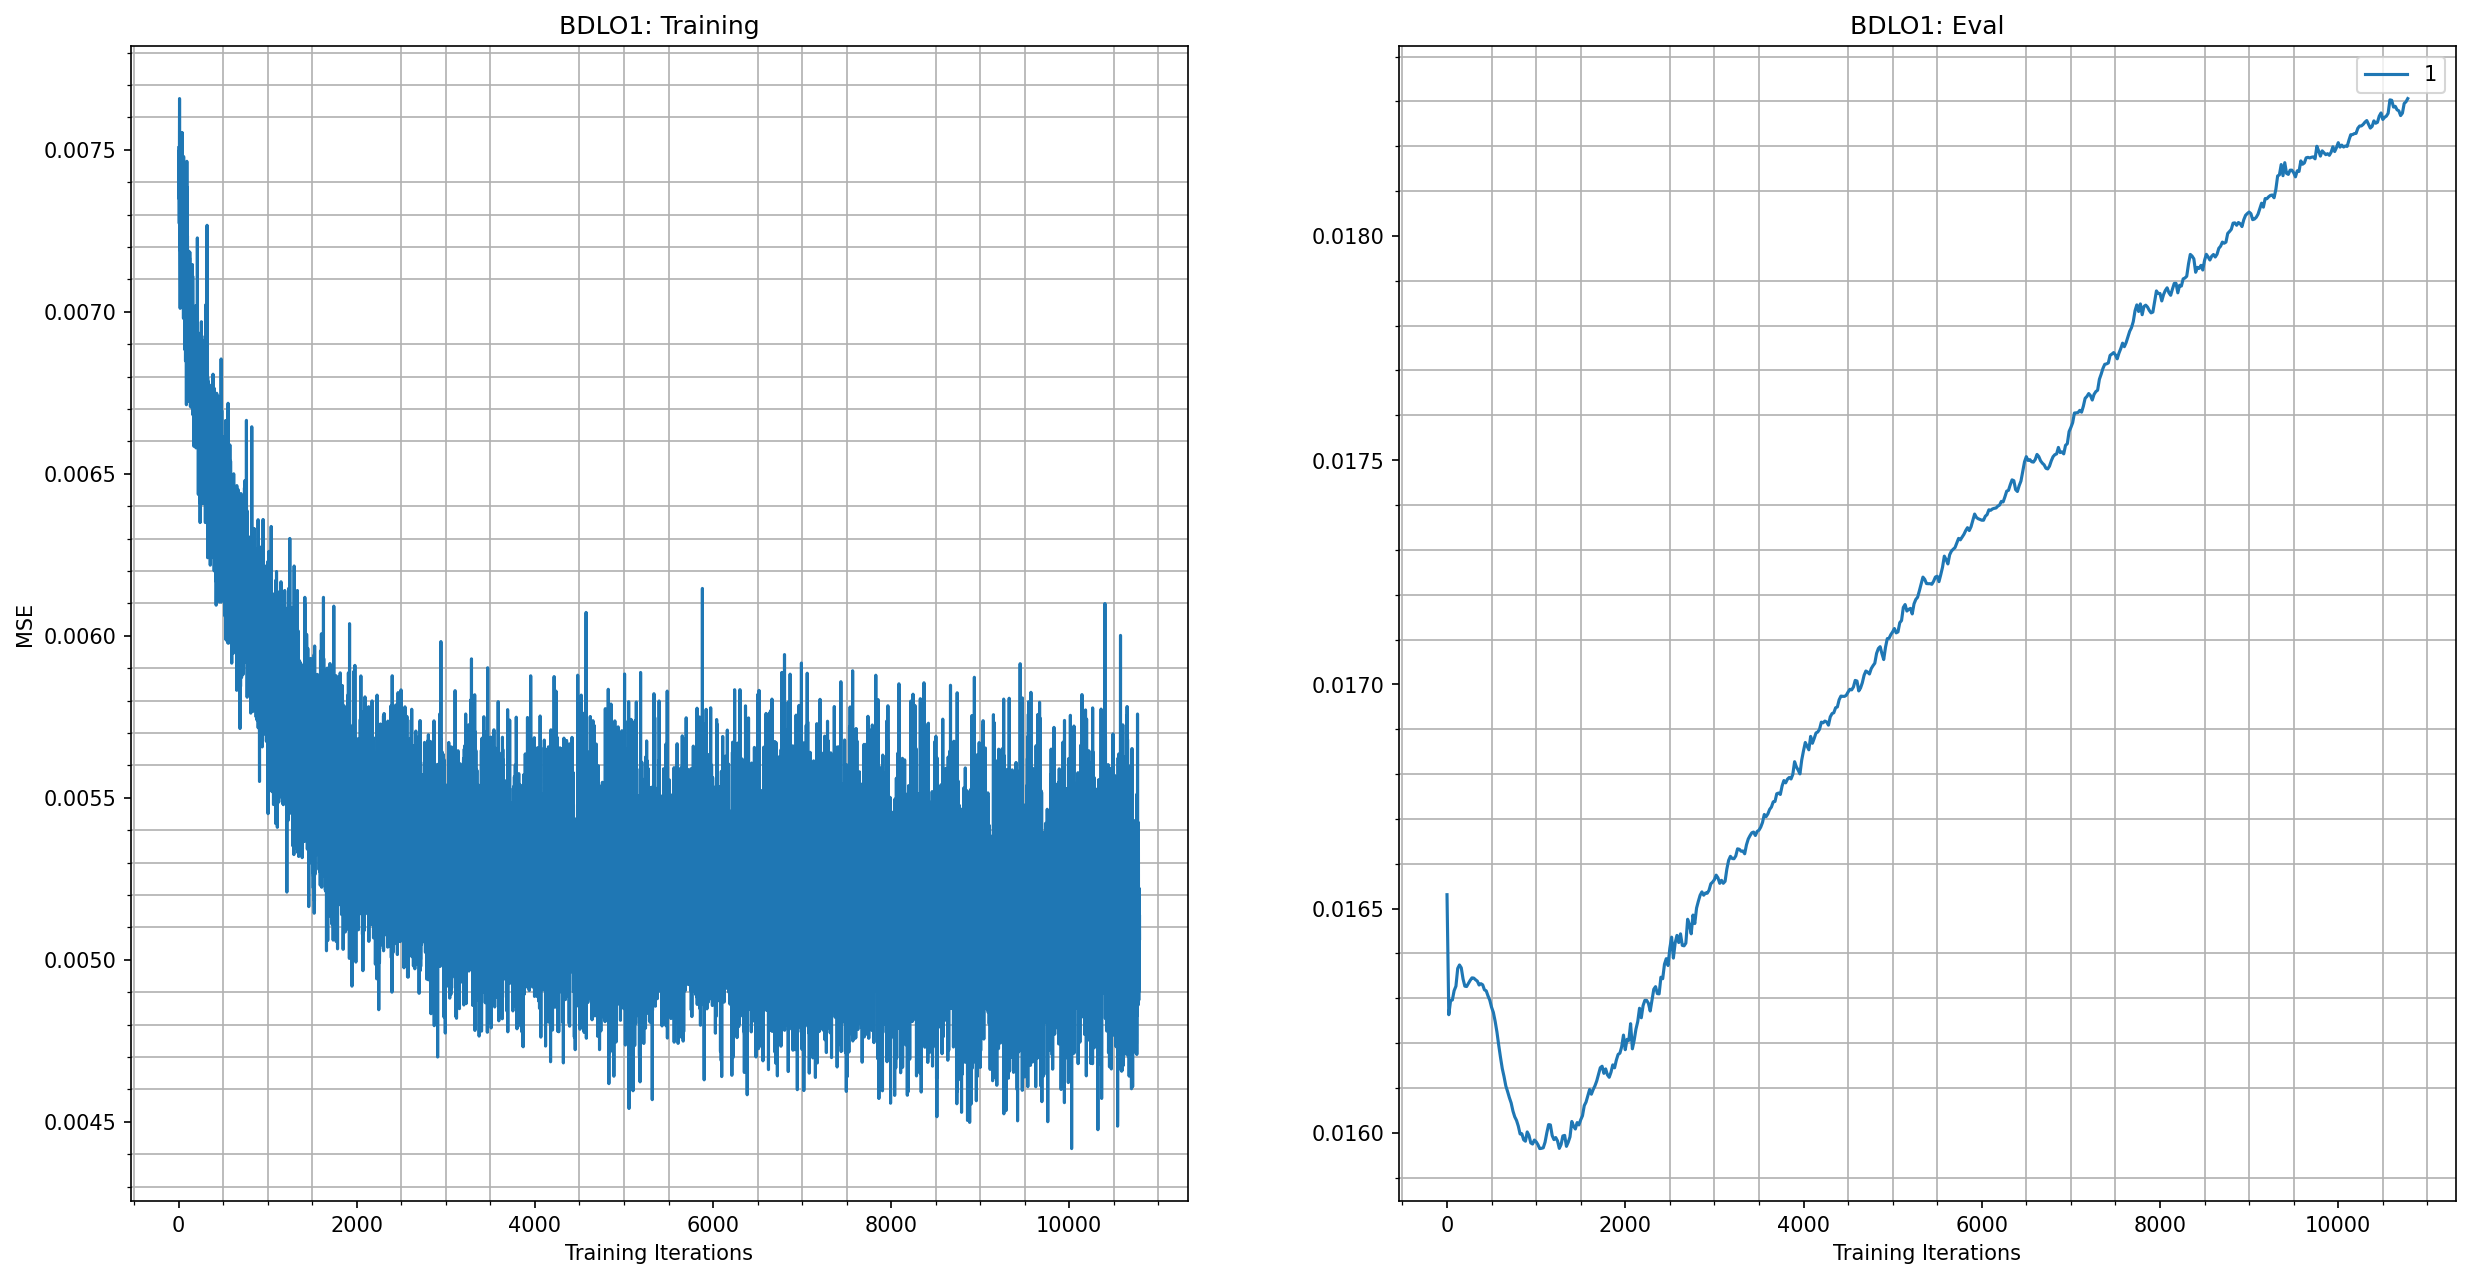
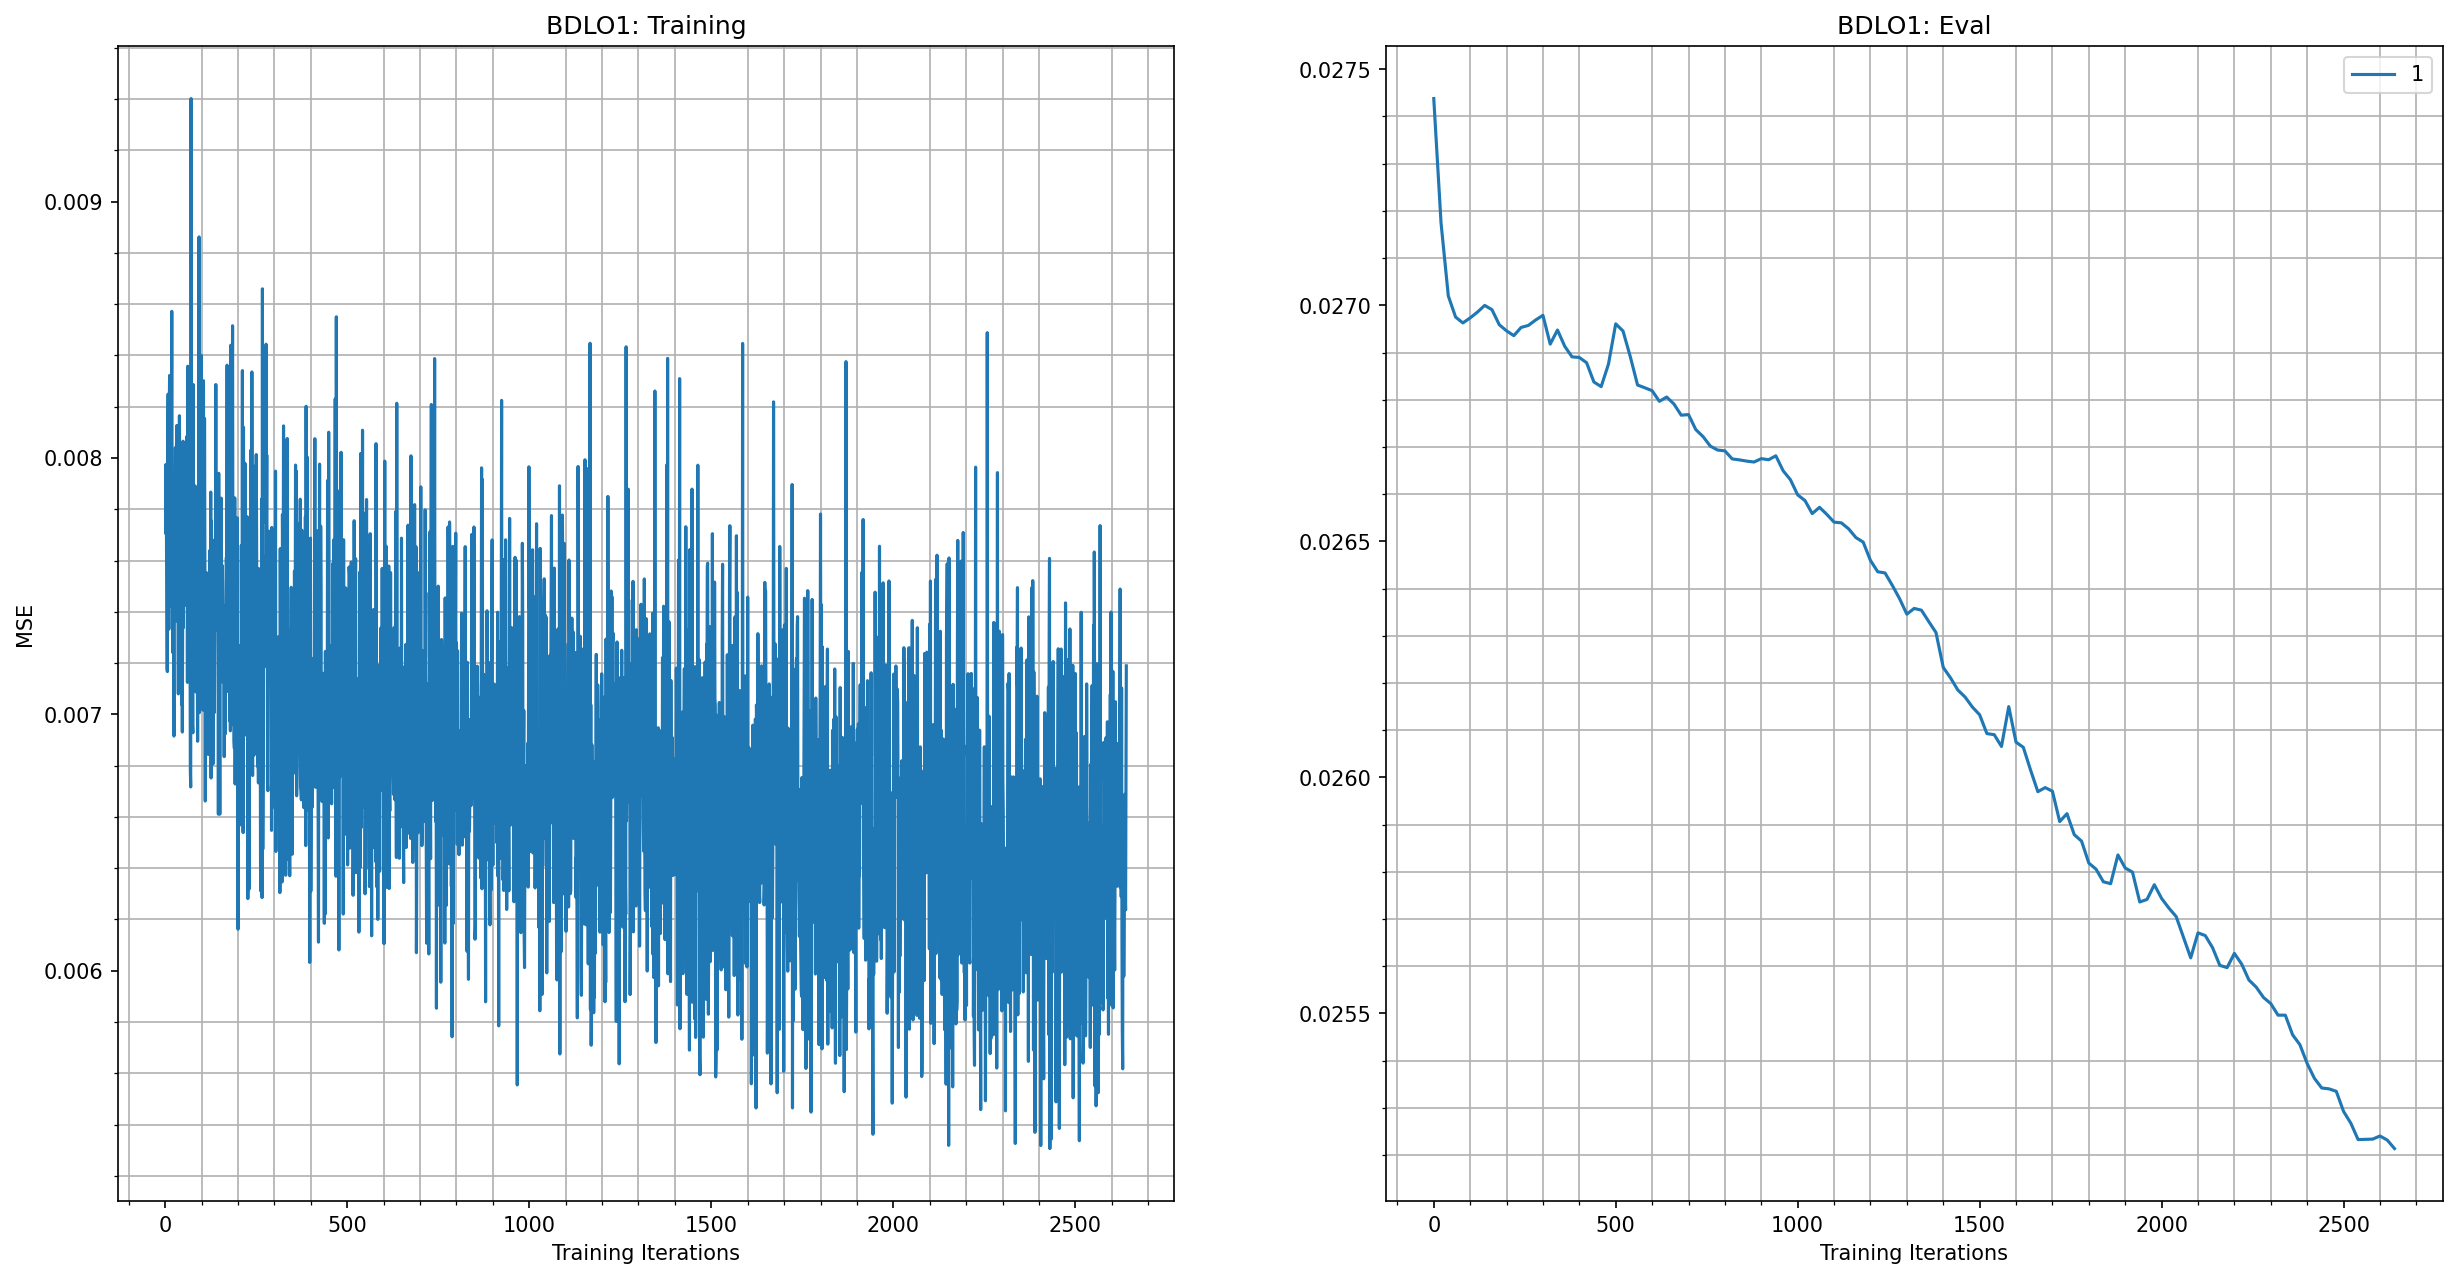
integration substeps, baseline testing

Changed region(s): [[0.0, 0.0, 0.4949, 1.0], [0.5258, 0.0, 0.9898, 1.0], [0.6496, 0.9453, 0.6805, 0.9758]]

diff --git a/scripts/DEFT_train.py b/scripts/DEFT_train.py
@@ -87,17 +87,18 @@ def train(
     damping_child1_init=None,
     damping_child2_init=None,
     early_stopping_patience=5,  # changed: Number of eval periods before stopping
-    training_case=5,  # changed: currently set to 5 for testing.  pass as parameter t incremenet during grid search
+    training_case=0,  # changed: currently set to 5 for testing.  pass as parameter t incremenet during grid search
     grid_search=False,  # changed: flag to enable early stopping only during grid search
 ):  
-    # total_time is the number of *effective* timesteps returned by the dataloader / simulated by the model.
-    #
+    
     # If the dataset pickles are recorded at `data_dt` (e.g. 0.01s) but we want to simulate at a larger
     # timestep `dt` (e.g. 0.05s), we downsample dataset frames by:
     #   frame_stride = dt / data_dt   (must be an integer)
     #
-    # The dataset reader will then load `total_time * frame_stride` raw frames from disk and keep every
+    # The dataset reader will then load `eval_time_horizon * frame_stride` raw frames from disk and keep every
     # `frame_stride`-th frame, returning sequences of length `total_time` that match the simulation dt.
+    frame_stride = int(dt / data_dt)  
+
     if frame_stride is None:
         frame_stride = int(round(dt / data_dt))
     if frame_stride < 1:
@@ -177,8 +178,8 @@ def train(
         bs_child1_val = bend_stiffness_child1_init if bend_stiffness_child1_init else 4e-3
         bs_child2_val = bend_stiffness_child2_init if bend_stiffness_child2_init else 4e-3
         damp_parent_val = damping_parent_init if damping_parent_init else 2.5
-        damp_child1_val = damping_child1_init if damping_child1_init else 3.0
-        damp_child2_val = damping_child2_init if damping_child2_init else 3.0
+        damp_child1_val = damping_child1_init if damping_child1_init else 2.5
+        damp_child2_val = damping_child2_init if damping_child2_init else 2.5
 
         bend_stiffness_parent = nn.Parameter(bs_parent_val * torch.ones((1, 1, n_edge), device=device))
         bend_stiffness_child1 = nn.Parameter(bs_child1_val * torch.ones((1, 1, n_edge), device=device))
@@ -750,7 +751,7 @@ def train(
                             )
 
                             # changed: After evaluation, check for early stopping in grid search
-                            current_eval_loss = traj_loss_eval.cpu().detach().numpy() / total_time
+                            current_eval_loss = traj_loss_eval.cpu().detach().numpy() / (total_time // frame_stride) # changed
 
                             # Print and record the average loss
                             print(np.sqrt(current_eval_loss))
@@ -764,7 +765,7 @@ def train(
                             clamp_type, training_case, BDLO_type))
                             
                             # changed to have minimum training iterations and only run during grid search
-                            if grid_search and training_iteration >= 500 and early_stopping_tracker(current_eval_loss):
+                            if grid_search and training_iteration >= 1000 and early_stopping_tracker(current_eval_loss):
                                 print(f"\nEarly stopping triggered at iteration {training_iteration}")
                                 print(f"\nEval loss consistently increasing. Best loss: {early_stopping_tracker.best_loss}")
                                 # Close progress bars before returning to prevent display issues
@@ -849,10 +850,10 @@ def grid_search_train(base_args, param_grid):
     
     print(f"Starting grid search with {len(combinations)}...")
     
-    for idx, param_combo in enumerate(combinations, start=3): # try training case 5
+    for idx, param_combo in enumerate(combinations): 
         config = dict(zip(param_names, param_combo))
         print(f"\n{'='*60}")
-        print(f"Configuration {idx+1}/{len(combinations)}") # increase training case number
+        print(f"Configuration {idx}/{len(combinations)-1}") # increase training case number
         print(f"Training Case: grid_search_{idx}")
         print(f"Parameters: {config}")
         print(f"{'='*60}\n")
@@ -909,7 +910,7 @@ def train_with_config(base_args, param_config, config_index):
         damping_parent_init=param_config.get('damping_parent'),
         damping_child1_init=param_config.get('damping_child1'),
         damping_child2_init=param_config.get('damping_child2'),
-        early_stopping_patience=5,
+        early_stopping_patience=8,
         training_case=config_index,  # make a new training case with each config
         grid_search=True,  # Enable early stopping for grid search
     )
@@ -942,6 +943,7 @@ if __name__ == "__main__":
     # clamp_type indicates how the BDLO is clamped (ends or middle)
     parser.add_argument("--clamp_type", type=str, default="ends")
 
+    # total_time is the maximum number of timesteps we have in the dataset (e.g. 500)
      # total_time is the number of *effective* timesteps returned by the dataloader / simulated by the model.
     # Example: if dataset is sampled at data_dt=0.01 and you set dt=0.05 (frame_stride=5),
     # you should set total_time=100 to cover the same 5 seconds as 500 raw frames.
@@ -955,7 +957,7 @@ if __name__ == "__main__":
     # Dataset sampling timestep (seconds per frame in the stored pickles)
     parser.add_argument("--data_dt", type=float, default=0.01)
     # Optional explicit downsampling stride (overrides dt/data_dt if provided)
-    parser.add_argument("--frame_stride", type=int, default=None)
+    parser.add_argument("--frame_stride", type=int, default=2)
 
     # Numerical integration substeps per timestep (dt is split into dt/substeps).
     # Example: dt=0.02, integration_substeps=2 => internal dt_sub=0.01 for more stable dynamics.
@@ -980,7 +982,7 @@ if __name__ == "__main__":
     parser.add_argument("--load_model", type=bool, default=False)
 
     # changed by felicia: add grid search flag
-    parser.add_argument("--grid_search", type=bool, default=False)
+    parser.add_argument("--grid_search", type=lambda x: (str(x).lower() == 'true'), default=False)
 
     # Parameters for training specific configurations (optional, overrides defaults)
     parser.add_argument("--bend_stiffness_parent", type=float, default=None)

diff --git a/scripts/read_results.py b/scripts/read_results.py
@@ -5,7 +5,7 @@ import numpy as np
 """example of reading pkl files"""
 
 clamp_type = "ends"
-training_case = 5
+training_case = 0
 BDLO_type = 1
 eval_loss_1 = np.array(pd.read_pickle(r"../training_record/eval_%s_loss_DEFT_%s_%s.pkl" % (clamp_type, training_case, BDLO_type)))
 eval_step_1 = np.array(pd.read_pickle(r"../training_record/eval_%s_epoches_DEFT_%s_%s.pkl" % (clamp_type, training_case, BDLO_type)))
